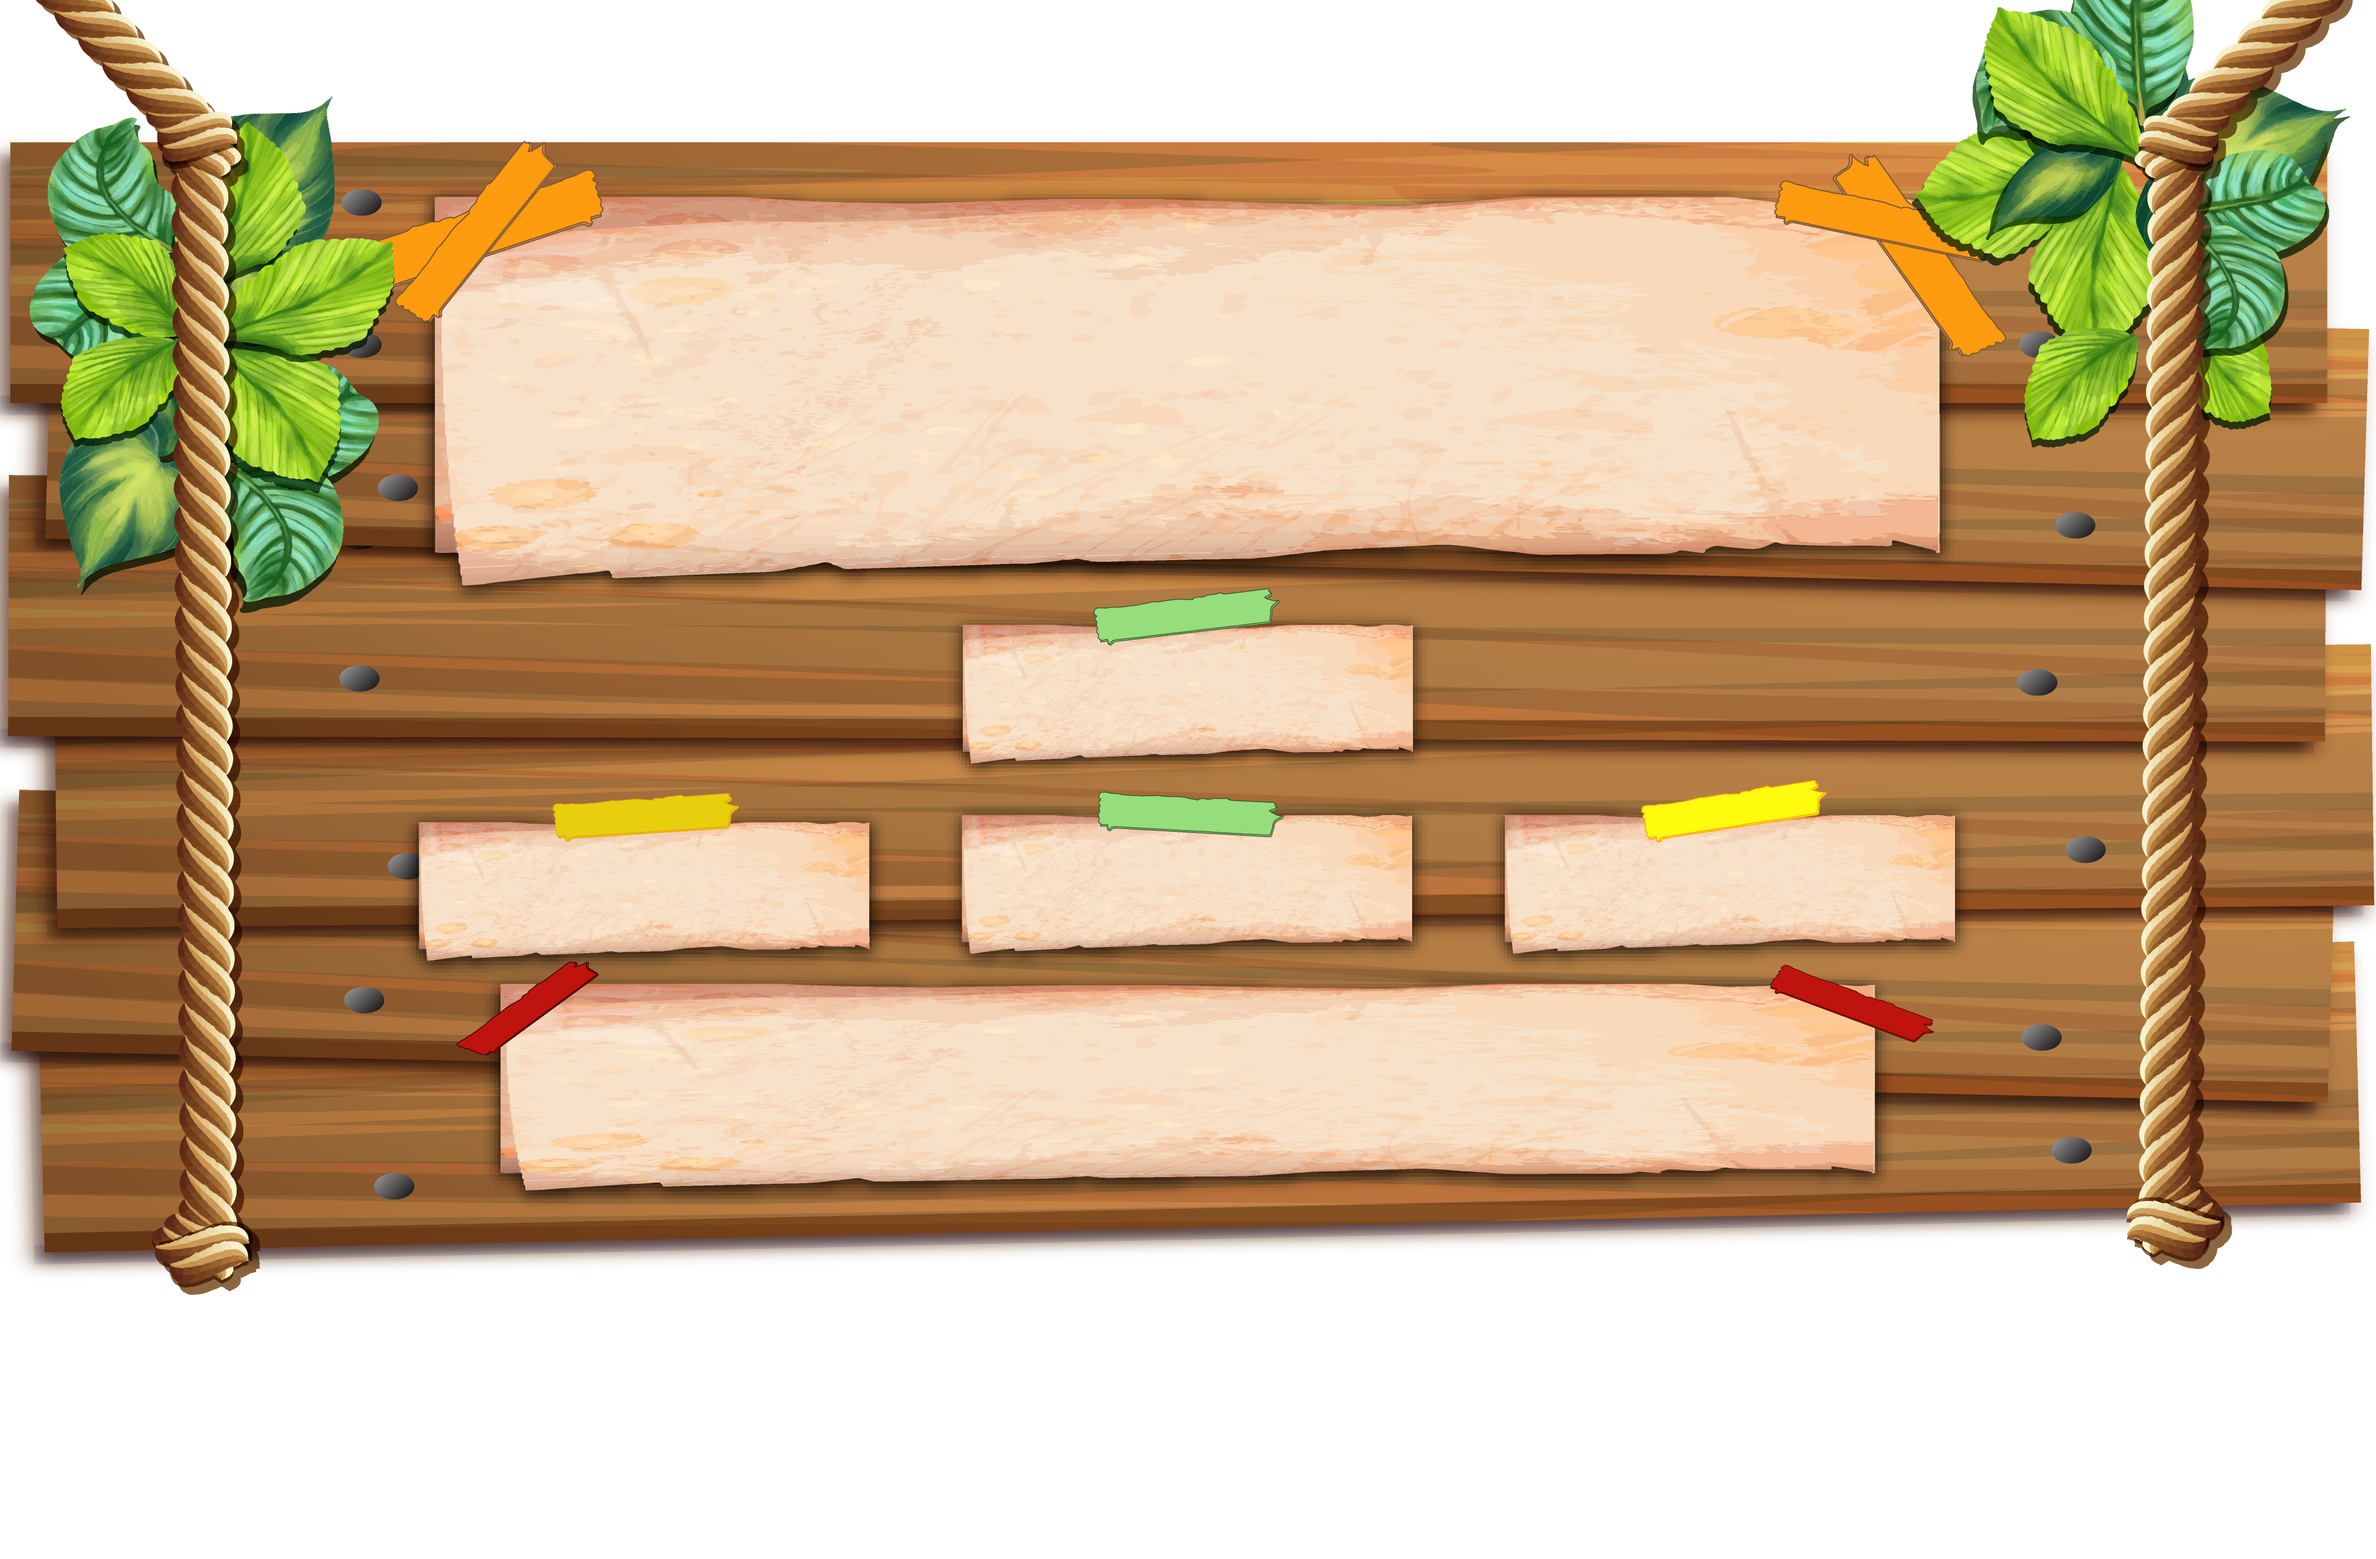
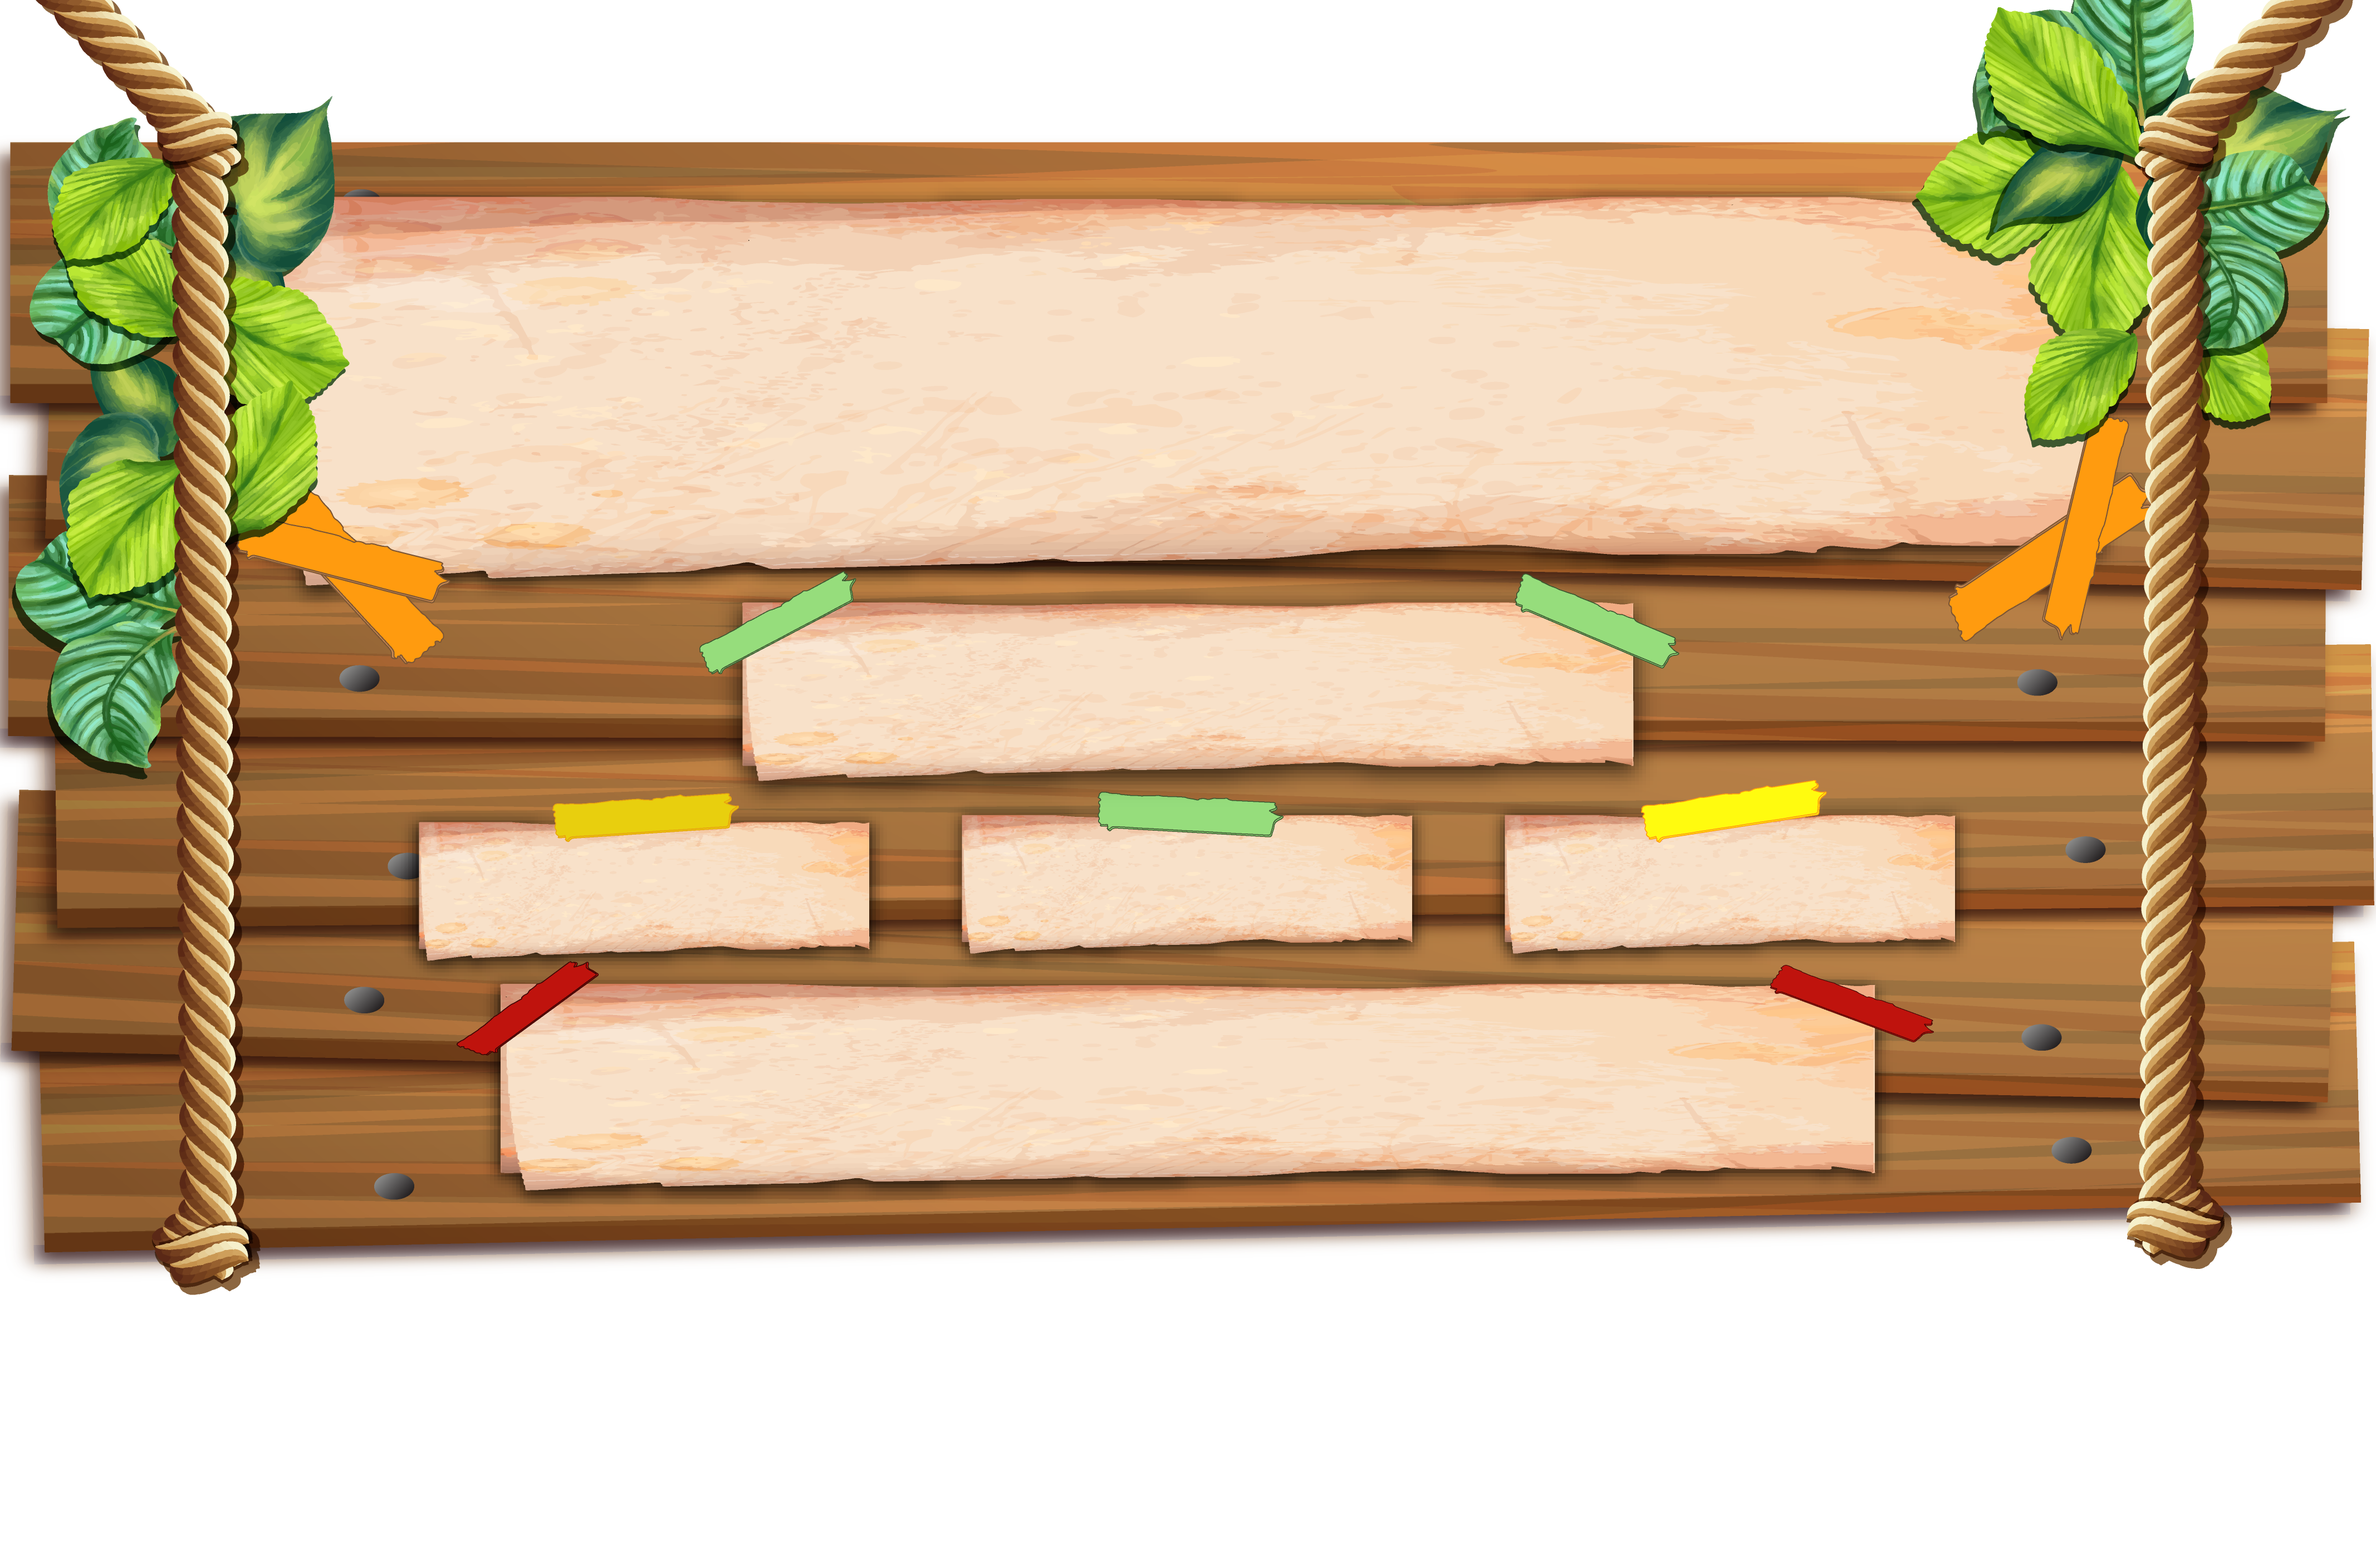
MagFast added wider backgrounds and adjusted placement for multis

Changed region(s): [[0.0, 0.0621, 0.9039, 0.5282], [0.561, 0.1243, 0.6857, 0.1554], [0.374, 0.1243, 0.4364, 0.1554]]

diff --git a/graphics/elements/mm-info-multi/mm-info-multi.html b/graphics/elements/mm-info-multi/mm-info-multi.html
@@ -14,8 +14,9 @@
 				width: 300px;
 				height: 700px;
 				display: flex;
-				font-size: 46px;
-				background: url("img/bg.png") no-repeat;
+				font-size: 22px;
+				background: url("img/dk-bg-multi-timer.png") no-repeat;
+				background-size: 300px 700px;
 				font-weight: 700;
 				font-variant-numeric: tabular-nums;
 				font-feature-settings: "tnum";
@@ -29,17 +30,17 @@
 
 			gdq-timer {
 				position: absolute;
-				height: 57px;
+				height: 26px;
 				width: 100%;
-				font-size: 42px;
+				font-size: 24px;
 			}
 
 			gdq-timer#toptimer {
-				top: 85px;
+				top: 77px;
 			}
 
 			gdq-timer#bottomtimer {
-				bottom: 85px;
+				bottom: 92px;
 			}
 
 			gdq-nameplate {
@@ -57,7 +58,7 @@
 				I'm sorry! I didn't have much time to do this
 				like literally 48 hours for everything
 				including learning stuff*/
-				bottom: 33px;
+				bottom: 65px;
 			}
 
 			.hidden {

diff --git a/graphics/elements/gdq-runinfo-multi/gdq-runinfo-multi.html b/graphics/elements/gdq-runinfo-multi/gdq-runinfo-multi.html
@@ -12,7 +12,7 @@
 				flex-direction: column;
 				justify-content: space-between;
 				white-space: nowrap;
-				font-family: oswald-m;
+				font-family: astounder;
 				font-weight: bold;
 				color: white;
 			}
@@ -32,7 +32,7 @@
 				justify-content: center;
 				align-items: center;
 				font-weight: 700;
-				top: 257px;
+				top: 219px;
 			}
 
 			.center {
@@ -49,23 +49,23 @@
 				flex-shrink: 0;
 				font-size: 20px;
 				font-weight: 700;
-				top: 314px;
-			}
-
-			#releaseYear {
-				top: 401px;
+				top: 355px;
 			}
 
 			#console {
-				top: 365px;
+				top: 418px;
+			}
+
+			#releaseYear {
+				top: 471px;
 			}
 
 			#estimate {
-				top: 437px;
+				top: 525px;
 			}
 
 			.minibox {
-				font-size: 15px;
+				font-size: 20px;
 			}
 
 		</style>

diff --git a/graphics/elements/gdq-nameplate/gdq-nameplate.html b/graphics/elements/gdq-nameplate/gdq-nameplate.html
@@ -61,7 +61,7 @@ Audio indicator comes out from side opposide placement indicator
 
 			#names {
 				position: relative;
-				top: 14px;
+				top: 19px;
 				display: flex;
 				justify-content: center;
 				flex: 1;
